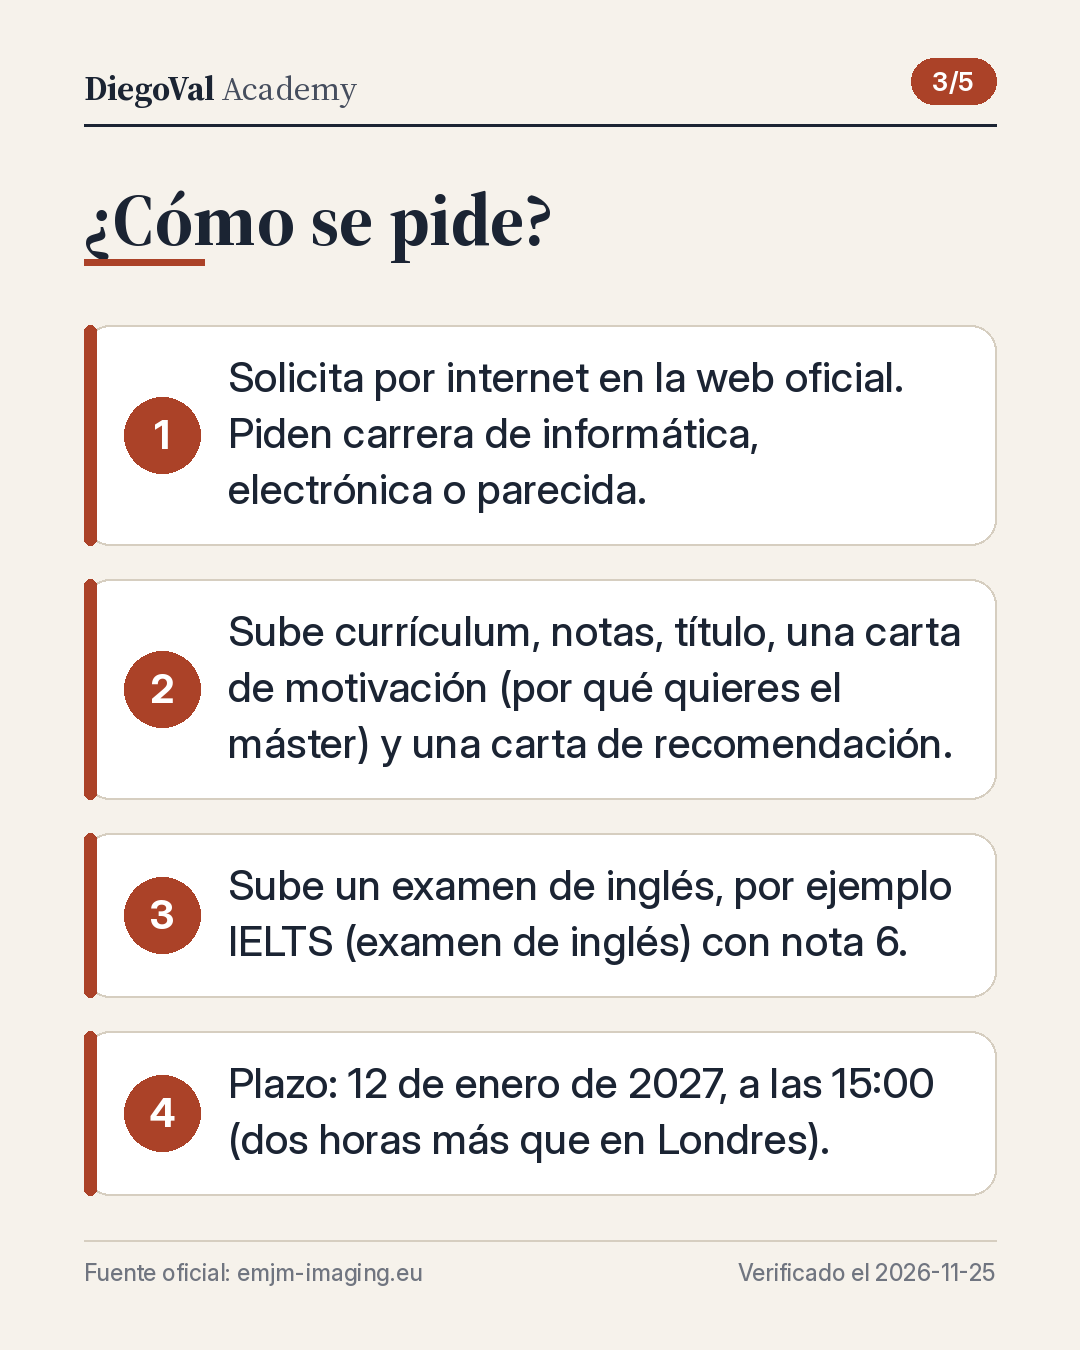
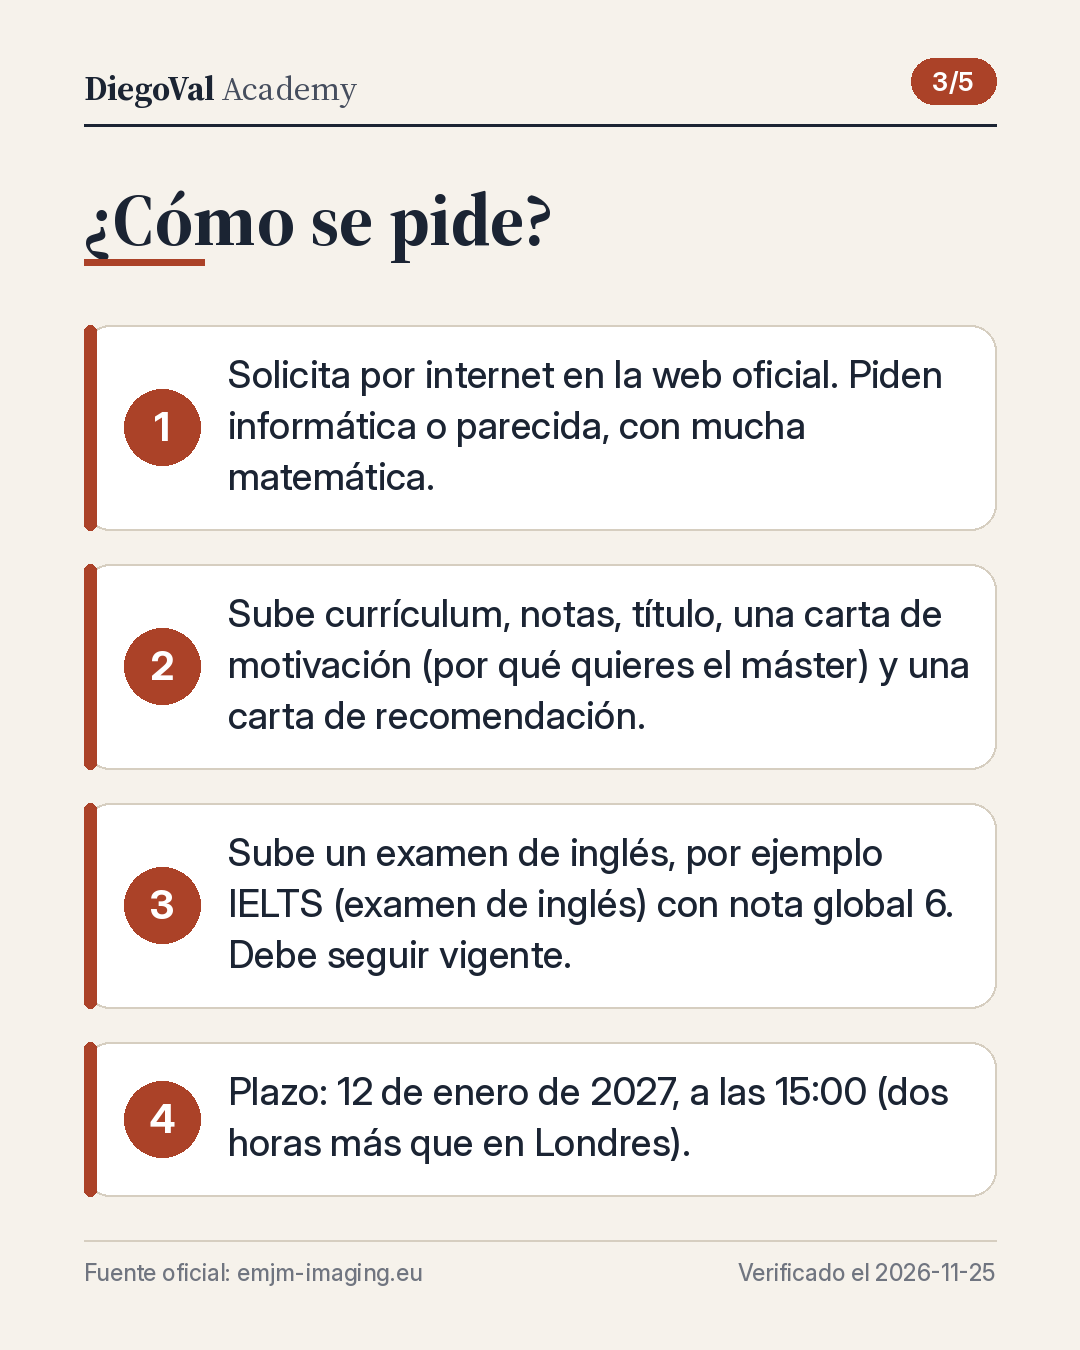
2026-11-25_miercoles_beca-imaging-erasmus-mundus: correcciones tras verificación (borrador)
Claude-Session: https://claude.ai/code/session_01HRCw35k6u88EnEyPfQ1ZCH

diff --git a/posts/2026-11-25_miercoles_beca-imaging-erasmus-mundus/caption.md b/posts/2026-11-25_miercoles_beca-imaging-erasmus-mundus/caption.md
@@ -1,18 +1,18 @@
-¿Quieres un máster en Europa con beca y te gusta la informática? 🌍 Hay uno de dos años, con plazo abierto.
+¿Quieres un máster en Europa con beca y te gusta la informática? Hay uno de dos años.
 
 En corto:
 • Qué es: máster Erasmus Mundus (programa de la Unión Europea para estudiar en varios países) sobre imagen y vídeo digital, en Italia, Suecia y Finlandia.
-• Beca: 1 400 euros al mes, hasta 24 meses, sin pagar matrícula (lo que cuesta estudiar). Incluye seguro médico y ayuda para viaje e instalación, sin importe publicado. Habrá gastos de viaje y visado.
-• Quién: carrera de informática, electrónica o parecida, e inglés demostrado. Hay becas para cualquier país. No pueden pedirla quienes ya tuvieron otra beca Erasmus Mundus.
+• Beca: 1 400 euros al mes, hasta 24 meses, sin pagar matrícula (lo que cuesta estudiar). Incluye seguro y ayuda para viaje e instalación (sin importe publicado). Habrá gastos de viaje y visado.
+• Quién: carrera de informática o parecida, con 30 créditos universitarios de matemáticas y 60 de informática, e inglés demostrado. La primera ronda es para cualquier país. No pueden pedirla quienes ya tuvieron otra beca Erasmus Mundus.
 • Plazo: 12 de enero de 2027, a las 15:00 (dos horas más que en Londres).
 
-Por qué es conocida: respaldada por la Unión Europea, con tres universidades socias.
+Por qué es conocida: respaldada por la Unión Europea; tres universidades socias.
 
-Lo que pocos explican: haber estudiado en inglés no te libra del examen de inglés. Mira si el tuyo sigue vigente.
+Lo que pocos explican: estudiar en inglés en Latinoamérica no te libra del examen de inglés. La nota debe seguir vigente.
 
 Cómo empezar:
 1. Lee los requisitos en la web oficial (en inglés).
-2. Prepara currículum, notas, carta de motivación, una carta de recomendación y examen de inglés.
+2. Cuenta tus créditos y prepara currículum, notas, carta de motivación y de recomendación.
 3. Solicita por internet antes del 12 de enero.
 
 Oficial: https://www.emjm-imaging.eu/application-and-admission/

diff --git a/posts/2026-11-25_miercoles_beca-imaging-erasmus-mundus/validation.md b/posts/2026-11-25_miercoles_beca-imaging-erasmus-mundus/validation.md
@@ -1,0 +1,29 @@
+# Validación — 2026-11-25_miercoles_beca-imaging-erasmus-mundus
+
+Ejecutado: 2026-11-25T07:11:04+01:00
+Decisión: **BLOQUEADA: no publicar**
+
+| Estado | Comprobación | Detalle |
+|---|---|---|
+| PASS | Archivos obligatorios | imagen: post.json, post.png, caption.md, sources.md, metadata.json |
+| PASS | Metadatos | campos obligatorios presentes |
+| PASS | Imagen | 1080x1350 PNG, 1 archivo (+5 diapositivas de carrusel, ignoradas) |
+| PASS | Canal Buffer | DiegoVal Academy (6ae0bdf22f1f5ed648eb92f9) |
+| PASS | Verificación del día | 2026-11-25 |
+| PASS | Longitud del texto | 1292/1300 caracteres |
+| PASS | Fecha visible en el texto | Verificado el: 2026-11-25 |
+| PASS | Marcadores pendientes | ninguno |
+| PASS | Enlaces documentados en sources.md | 1 enlaces |
+| PASS | Enlace principal en el texto | https://www.emjm-imaging.eu/application-and-admission/ |
+| PASS | Lo que pocos explican | presente en imagen y texto |
+| PASS | Sin URLs en la imagen | sólo dominio de la fuente |
+| PASS | Lenguaje sencillo: siglas (texto) | todas explicadas o ninguna |
+| PASS | Lenguaje sencillo: palabras difíciles (texto) | sin burocracia ni calcos detectados |
+| PASS | Lenguaje sencillo: siglas (imagen) | todas explicadas o ninguna |
+| PASS | Lenguaje sencillo: palabras difíciles (imagen) | sin burocracia ni calcos detectados |
+| PASS | Lenguaje sencillo: frases largas | todas ≤ 32 palabras |
+| FAIL | Lenguaje sencillo: revisión del verificador | falta metadata.plain_language_check con la pregunta exacta, answer 'sí', reviewer y checked_text_sha256 (python3 scripts/validate_post.py <carpeta> --plain-hash) |
+| PASS | Evidencia de popularidad | 2 señales documentadas |
+| PASS | Plazo | 2027-01-12T15:00:00+02:00 (quedan 48 días) |
+| PASS | Duplicados | sin repeticiones en 36 filas de todas las plataformas (URL canónica, topic_key y vídeo; mismo día en otra red permitido) |
+| PASS | Enlace accesible | 200 https://www.emjm-imaging.eu/application-and-admission/ |

diff --git a/posts/2026-11-25_miercoles_beca-imaging-erasmus-mundus/caption_instagram.md b/posts/2026-11-25_miercoles_beca-imaging-erasmus-mundus/caption_instagram.md
@@ -3,12 +3,12 @@
 Hay uno de 2 años sobre imagen y vídeo digital: un máster Erasmus Mundus (programa de la Unión Europea) en Italia, Suecia y Finlandia.
 
 ✅ La beca da 1 400 euros al mes, hasta 24 meses, sin pagar matrícula (lo que cuesta estudiar)
-✅ Piden carrera de informática, electrónica o parecida, e inglés demostrado
+✅ Piden carrera de informática o parecida, con 30 créditos universitarios de matemáticas y 60 de informática, e inglés demostrado
 ✅ Plazo: 12 de enero de 2027, a las 15:00 (dos horas más que en Londres)
 
-Haber estudiado en inglés no te libra del examen de inglés. Mira si el tuyo sigue vigente.
+Estudiar en inglés en Latinoamérica no te libra del examen de inglés. La nota debe seguir vigente.
 
-Esta semana: revisa tu examen de inglés y pide tu carta de recomendación. Web oficial, en inglés: emjm-imaging.eu
+Esta semana: cuenta tus créditos y revisa tu examen de inglés. Web oficial, en inglés: emjm-imaging.eu
 
 Verificado el: 2026-11-25
 
